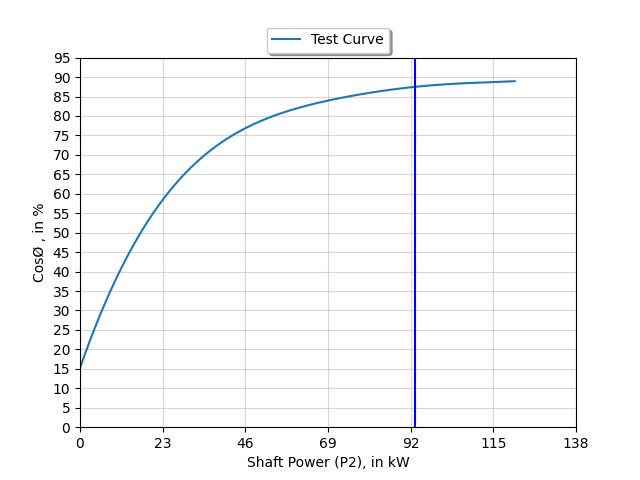
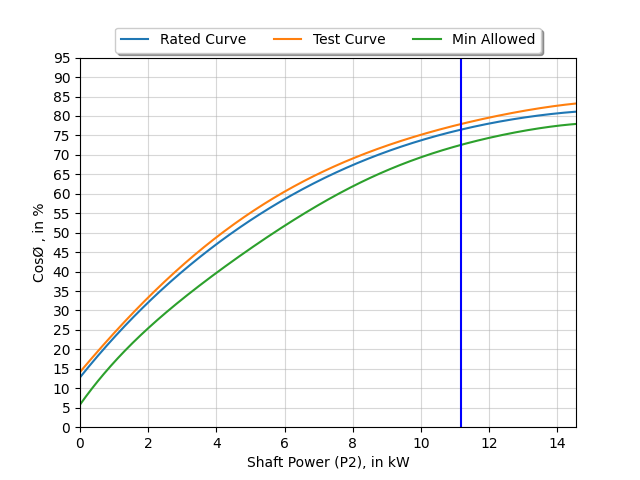
updated software 07feb2023

diff --git a/app/Controllers/Motor_Test.php b/app/Controllers/Motor_Test.php
@@ -1164,7 +1164,10 @@ class Motor_Test extends BaseController
 		$pdf->Ln();
 
 		//need uncomment
-		$pdf->Cell(10 ,90,$pdf->Image(base_url().'/public/assets/uploads/'.$result[0]['motor_pic'],70,76,60),0,1,'R');
+		$pdf->Cell(10 ,90,$pdf->Image(base_url().'/public/assets/uploads/'.$result[0]['motor_pic'],70,90,60),0,1,'R');
+
+
+		$pdf->Ln(40);
 
 		$pdf->Cell(195,6,'2. MOTOR NAME PLATE DATA',1,0,'C', true);
 		$pdf->Ln(10);
@@ -1286,6 +1289,7 @@ class Motor_Test extends BaseController
 
 		/******************** 3. MOTOR RATED DATA ***************************/
 
+if($result[0]['rated_curves_flag'] == 1){
 
 		$pdf->AddPage();
 		$pdf->Rect(5, 5, 200, 287, 'S');
@@ -1562,7 +1566,7 @@ class Motor_Test extends BaseController
 		$pdf->Cell(20,6,number_format((float)$rated_curves['cos_in_percent_5'] - $pfactor5, 2, '.', '') ,1,0,'C');
 		$pdf->Cell(20,6,number_format((float)$rated_curves['cos_in_percent_6'] - $pfactor6, 2, '.', '') ,1,0,'C');
 		$pdf->Cell(20,6,number_format((float)$rated_curves['cos_in_percent_7'] - $pfactor7, 2, '.', '') ,1,0,'C');
-
+}
 		/******************** 5. TEST INFORMATION ***************************/
 
 		$pdf->AddPage();
@@ -1752,8 +1756,8 @@ class Motor_Test extends BaseController
 			"Stator Winding Temp, tt in C", "Ambient Temperature, in C", "Line-to-Line Voltage, in V", "Frequency, in Hz",
 			"Synchronous speed, ns, in RPM","Observed Speed, in r/min","Observed Slip, in r/min", "Observed Slip, in p.u.",
 			"Corrected Slip, in p.u.","Corrected Speed, in r/min","Torque, in N-m","Dynamometer Correction, in N-m","Corrected Torque, in N-m",
-			"Shaft Power, in kW","Line Current, in A","Stator Power, in kW","Stator I2R Loss, in kW, at tt","Winding Resistance at ts",
-			"Stator I2R Loss, in kW, at ts","Stator Power Correction, in kW","Corrected Stator Power, in kW","Efficiency, in %","Power Factor, in %"
+			"Shaft Power (P2), in kW","Line Current, in A","Stator Power, in kW","Stator I2R Loss, in kW, at tt","Winding Resistance at ts",
+			"Stator I2R Loss, in kW, at ts","Stator Power Correction, in kW","Corrected Stator Power (P1), in kW","Efficiency, in %","Power Factor, in %"
 		);
 
 		$efficiency_graph = array();
@@ -2140,7 +2144,7 @@ class Motor_Test extends BaseController
 		$pdf->Cell(19,6,number_format($efficiency_graph[6],2),1,0,'C');
 		$pdf->Ln();
 
-		$pdf->Cell(62,6,'Shaft Power, in kW',1,0,'C');
+		$pdf->Cell(62,6,'Shaft Power (P2), in kW',1,0,'C');
 		$pdf->Cell(19,6,number_format($shaft_power_graph[0],2),1,0,'C');
 		$pdf->Cell(19,6,number_format($shaft_power_graph[1],2),1,0,'C');
 		$pdf->Cell(19,6,number_format($shaft_power_graph[2],2),1,0,'C');
@@ -2193,7 +2197,7 @@ class Motor_Test extends BaseController
 		$pdf->Cell(19,6,$corrected_speed_rmin_graph[6],1,0,'C');
 		$pdf->Ln();
 
-		$pdf->Cell(62,6,'Shaft Power, in kW',1,0,'C');
+		$pdf->Cell(62,6,'Shaft Power (P2), in kW',1,0,'C');
 		$pdf->Cell(19,6,number_format($shaft_power_graph[0],2),1,0,'C');
 		$pdf->Cell(19,6,number_format($shaft_power_graph[1],2),1,0,'C');
 		$pdf->Cell(19,6,number_format($shaft_power_graph[2],2),1,0,'C');
@@ -2245,7 +2249,7 @@ class Motor_Test extends BaseController
 		$pdf->Cell(19,6,number_format($total_current_graph[6],2),1,0,'C');
 		$pdf->Ln();
 
-		$pdf->Cell(62,6,'Shaft Power, in kW',1,0,'C');
+		$pdf->Cell(62,6,'Shaft Power (P2), in kW',1,0,'C');
 		$pdf->Cell(19,6,number_format($shaft_power_graph[0],2),1,0,'C');
 		$pdf->Cell(19,6,number_format($shaft_power_graph[1],2),1,0,'C');
 		$pdf->Cell(19,6,number_format($shaft_power_graph[2],2),1,0,'C');
@@ -2297,7 +2301,7 @@ class Motor_Test extends BaseController
 		$pdf->Cell(19,6,number_format($power_factor_percentage_graph[6],2),1,0,'C');
 		$pdf->Ln();
 
-		$pdf->Cell(62,6,'Shaft Power, in kW',1,0,'C');
+		$pdf->Cell(62,6,'Shaft Power (P2), in kW',1,0,'C');
 		$pdf->Cell(19,6,number_format($shaft_power_graph[0],2),1,0,'C');
 		$pdf->Cell(19,6,number_format($shaft_power_graph[1],2),1,0,'C');
 		$pdf->Cell(19,6,number_format($shaft_power_graph[2],2),1,0,'C');

diff --git a/assets/images/plot_graphs_efficiency.py b/assets/images/plot_graphs_efficiency.py
@@ -135,22 +135,22 @@ def speed_graph():
         iterator = iterator + 1
 
     if(rated_curves_flag == 1):
-        X_Y_Spline = make_interp_spline(x, hitachi, k=5)
+        X_Y_Spline = make_interp_spline(x, hitachi, k=3)
         X_ = np.linspace(min(x), max(x), 500)
         Y_ = X_Y_Spline(X_)
         plt.plot(X_, Y_, label=data['Hitachi_Curve_Legend'])
 
-    X_Y_Spline = make_interp_spline(x, test_curve, k=5)
+    X_Y_Spline = make_interp_spline(x, test_curve, k=3)
 
     X_ = np.linspace(min(x), max(x), 500)
     Y_ = X_Y_Spline(X_)
     plt.plot(X_, Y_, label='Test Curve')
     if(rated_curves_flag == 1):
-        X_Y_Spline = make_interp_spline(x, min_allowed, k=5)
+        X_Y_Spline = make_interp_spline(x, min_allowed, k=3)
         X_ = np.linspace(min(x), max(x), 500)
         Y_ = X_Y_Spline(X_)
         plt.plot(X_, Y_, label='Min Allowed')
-        X_Y_Spline = make_interp_spline(x, max_allowed, k=5)
+        X_Y_Spline = make_interp_spline(x, max_allowed, k=3)
         X_ = np.linspace(min(x), max(x), 500)
         Y_ = X_Y_Spline(X_)
         plt.plot(X_, Y_, label='Max Allowed')
@@ -168,8 +168,8 @@ def speed_graph():
     minor_ticks = np.arange(0, int(float(data['FL'])*1.5), int((float(data['FL'])*1.5)/6))
 
     ax.set_xticks(major_ticks)
-    low_y_axis__point = int(min(test_curve)-20)
-    high_y_axis__point = int(max(test_curve)+20)
+    low_y_axis__point = int(min(test_curve)-300)
+    high_y_axis__point = int(max(test_curve)+100)
 
     #plt.plot([data['FL'], 0], [data['FL'], high_y_axis__point], 'bo', linestyle="-")
     number_of_points_major = int((high_y_axis__point - low_y_axis__point)/10)

diff --git a/app/Models/Motor_Test_model.php b/app/Models/Motor_Test_model.php
@@ -41,7 +41,7 @@ class Motor_Test_model extends Model{
 
       public function getMotorTest()
       {
-          return $this->findAll();
+          return $this->orderBy('id', 'DESC')->findAll();
       }
 
 
